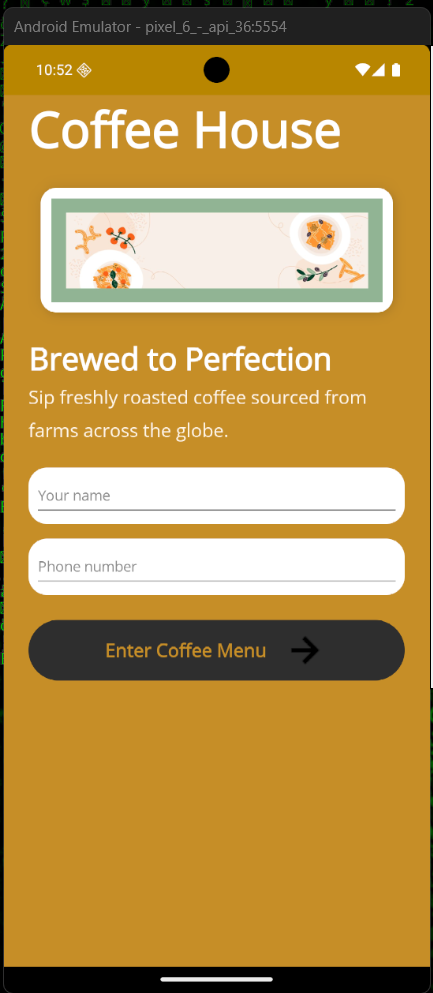
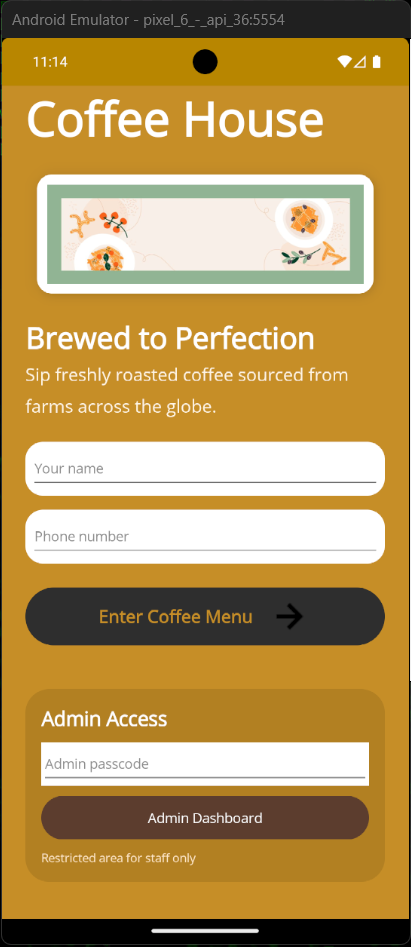
Update README

Changed region(s): [[0.0584, 0.1837, 0.9343, 0.7043], [0.0, 0.0, 1.0, 1.0], [0.0876, 0.735, 0.9051, 0.9187]]

diff --git a/README.md b/README.md
@@ -73,6 +73,10 @@ The following annotated walkthrough highlights each major screen so reviewers ca
 | --- | --- | --- | --- |
 | <img src="docs/my_account_page.png" width="240" alt="My account page" /> | <img src="docs/my_account_dropdown_menu.png" width="240" alt="My account dropdown menu" /> | <img src="docs/logout_dropdown_menu.png" width="240" alt="Logout dropdown menu" /> | <img src="docs/logout_popup.png" width="240" alt="Logout confirmation popup" /> |
 
+| Admin Home | Admin Dashboard | Admin Customer Orders | Admin Account |
+| --- | --- | --- | --- |
+| <img src="docs/admin_home_page.png" width="240" alt="Admin home page" /> | <img src="docs/admin_dashboard.png" width="240" alt="Admin dashboard" /> | <img src="docs/admin_customer_orders.png" width="240" alt="Admin customer orders page" /> | <img src="docs/admin_account.png" width="240" alt="Admin account page" /> |
+
 [Back to Table of Contents](#table-of-contents)
 
 ## User Stories & Use Cases
